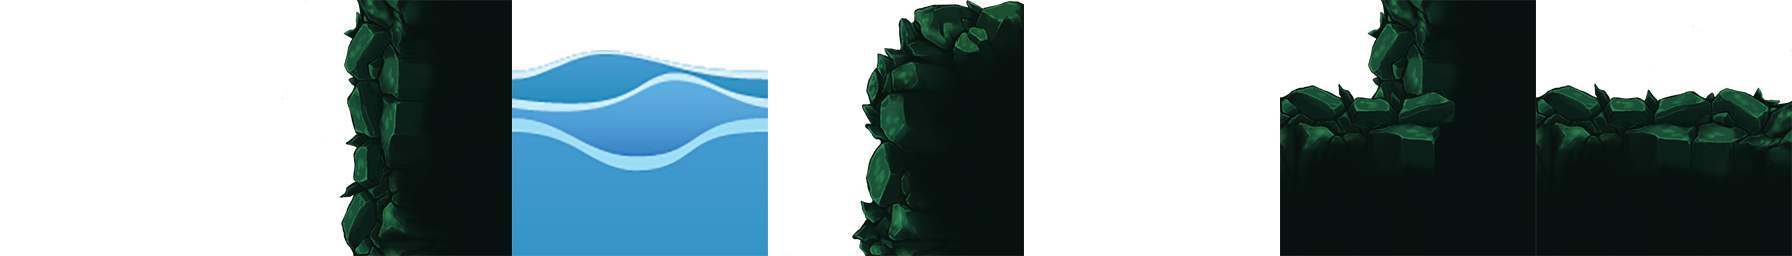
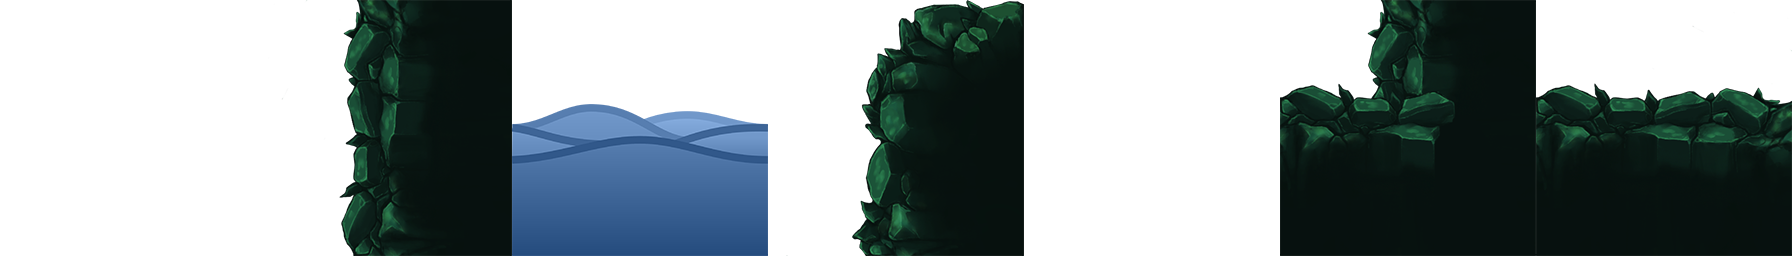
Modified wall.png to include the new waves. Modified Background to match the colouring.

Changed region(s): [[0.2812, 0.1875, 0.4375, 1.0]]

diff --git a/src/scripts/objects/Background.ts b/src/scripts/objects/Background.ts
@@ -4,7 +4,7 @@ import { CollisionCategories } from "./CollisionCategories";
 export default class Background extends Phaser.GameObjects.GameObject {
 	private readonly SKY_COLOUR: number = 0xabdfe4;
 	private readonly SKY_HEIGHT: number = 180;
-	private readonly BACKGROUND_COLOUR: number = 0x3895c7;
+	private readonly BACKGROUND_COLOUR: number = 0x254c7e;
 	private readonly graphics: Phaser.GameObjects.Graphics;
 	private readonly tilemap: Phaser.Tilemaps.Tilemap;
 
